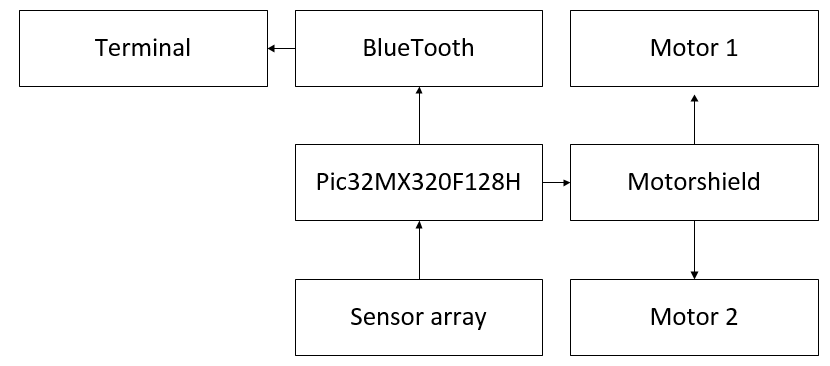
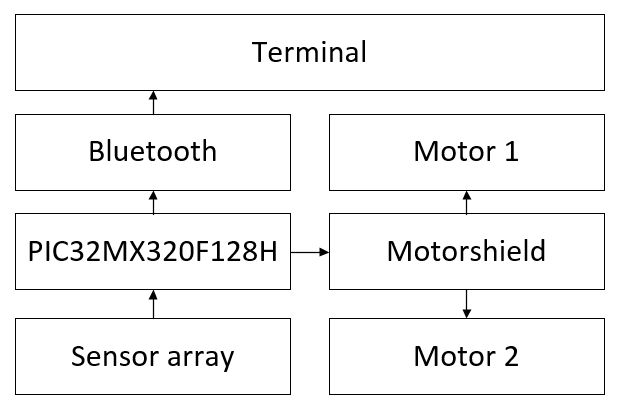
Henriks, Martins Lister rettet (næsten)
Lol eat shit

diff --git a/Rapport/contents/hardware/hardwaredesc.tex b/Rapport/contents/hardware/hardwaredesc.tex
@@ -1,11 +1,11 @@
 %\section{Description of the hardware structure and functionality}
-In the following section, the hardware parts and functions will be introduced and described. The following part consists of sensor selection, ADC, chipKIT Uno32 board \& motor-shield.
+In the following section, the hardware parts and functions will be introduced and described. The following part consists of sensor selection, ADC, chipKIT Uno32 board, motor-shield including the H bridge, and the bluetooth transmitter.
 
 \section{Hardware diagram}
-The micro-controller is connected to the motor-shield and the motor-shield is then powering both motor 1 and motor 2. The sensor-array is sending the collected data to the micro-controller every 25 ms, the micro-controller then sends it further to the bluetooth unit. The bluetooth unit then writes the data to the terminal. 
+The micro-controller is connected to the motor-shield and the motor-shield is then powering both motor 1 and motor 2. The micro-controller reads data from the sensor array every 25 microsecond by utilizing the ADC, the micro-controller then sends it further to the bluetooth unit. The bluetooth unit then sends its data to the terminal. 
 \begin{figure}[!ht]
 	\centering
-	\includegraphics[width=.6\textwidth]{figures/hardwaredia2.png}
+	\includegraphics[width=.6\textwidth]{figures/hardwaredia.png}
 	\caption{\text{Block diagram showing the hardware.}}
 	\label{Hardware diagram}
 \end{figure}
@@ -19,26 +19,26 @@ The micro-controller is connected to the motor-shield and the motor-shield is th
 		Name                & QRE1113 Board & OPB704    \\ \hline
 		Max sensor distance & 3mm           & 3.8mm     \\ \hline
 		Forward current     & 50mA          & 40mA      \\ \hline
-		Mounting            & On print      & In casing \\ \hline
+		Mounting            & On a PCB      & In casing \\ \hline
 		Price               & 19.43DKK      & 42.55DKK  \\ \hline
 	\end{tabular}
 	\caption{Table showing the sensors in consideration}
 \end{table}
-The table shows a comparison of the two sensors that were taken into consideration for the project, that is to show the price difference and the utility from sensor to sensor. \emph{(fig 2.1)}
+The table shows a comparison of the two sensors that were taken into consideration for the project, this is to show the price difference and the specification differences from sensor to sensor. \emph{(fig 2.1)}
 
 \subsection{The OPB704}
-The OPB704 sensor ended up being selected for the robot over the popular QRE1113 sensor board. It has a higher sensor max distance (3.8mm\footnote{http://www.farnell.com/datasheets/1884910.pdf} compared to the QRE1113s 3mm) and it has the same functionality. It comes with a special casing, for which a special mounting unit was 3D-printed to accommodate an array of 7. This makes the mounting very solid and tightly fitted unto the robot, which ideally makes the sensor array more stable in case of an uneven test course.
+The OPB704 sensor ended up being selected for the robot over the popular QRE1113 sensor board. It has a higher sensor max distance (3.8mm\footnote{http://www.farnell.com/datasheets/1884910.pdf} compared to the QRE1113s 3mm) and it has the same functionality. The way the sensor works is an LED shoots It comes with a special casing, for which a special mounting unit was 3D-printed to accommodate an array of 7. This makes the mounting very solid and tightly fitted unto the robot, which ideally makes the sensor array more stable in case of an uneven test course.
 \sidebyimg{figures/opb704.jpg}{The sensor OPB 704}{figures/sensorarray.jpg}{3D printed sensor array module}
 
-\subsection{The QRE1113 board(Analog)}
-Another possible sensor selection would be the QRE1113\footnote{http://cdn.sparkfun.com/datasheets/Sensors/Proximity/QRE1113.pdf} board sensor. This sensor comes complete with mounting and the necessary printing and wiring. This makes working with the sensor fairly straight forward. Although this sensor is commonly used for line following robots, when it was compared to the OPB704, it quickly became apparent that the difference in max sensor distance could become a liability, and with this in mind, the OPB704 sensor was selected.
+\subsection{The QRE1113 board}
+Another possible sensor selection would be the QRE1113\footnote{http://cdn.sparkfun.com/datasheets/Sensors/Proximity/QRE1113.pdf} board sensor. This sensor comes complete with mounting and the necessary printing and wiring. This makes working with the sensor fairly straightforward. Although this sensor is commonly used for line following robots, when it was compared to the OPB704, it quickly became apparent that the difference in max sensor distance could become a liability, and with this in mind, the OPB704 sensor was selected.
 
-\sidebyimg{figures/QRE.jpg}{QRE1113 Sensor with own mount}{figures/QREmount.jpg}{3D printed sensor array module withe the QRE1113}
+\sidebyimg{figures/QRE.jpg}{QRE1113 Sensor on a breakout board}{figures/QREmount.jpg}{3D printed sensor array module withe the QRE1113}
 
 \section{Analog-to-digital converter (ADC)}
-The purpose of the ADC is to convert the analog data from the sensors to digital data that can be managed by a computer - this allows data received from the blue-tooth transmitter on the product to be processed into readable data more easily, which is great for showing how the sensors are reacting. The sensors themselves cannot discern what they actually need to read, the sensors just read anything they can see and send that signal.
+The purpose of the ADC is to convert the analog signal from the sensors to digital data that can be managed by a computer - the digital data is sent through the bluetooth transmitter to a computer which displays these data readings in a GUI that has been programmed for this robot. This allows the user to read and understand what the sensors are reacting to. The sensors themselves cannot discern what signals are relevant and when to send these, the sensors just read anything they can see and send that signal. Analog signals can have a significant amount of noise - since any received noise is interpreted as part of the signal, 
 
-Analog signals can have a significant amount of noise - since any received noise is interpreted as part of the signal, a digital signal is not only more easy to work with, it will also provide more precise data. This will make for more accurate readings on the tachometer on the robot, which allows even more finely tuned monitoring of the robot and its working processes. \\
+*a digital signal is not only more easy to work with, it will also provide more precise data. This will make for more accurate readings on the tachometer of the robot, which allows even more finely tuned monitoring of the robot and its working processes.* TBD \\
 
 \subsubsection{ADC diagram} 
 \img{figures/ADCblock.png}{PIC32 ADC fuctional block diagram}{adcblockdiagram}{1}
@@ -46,19 +46,24 @@ Analog signals can have a significant amount of noise - since any received noise
 \subsubsection{This products usage of ADC}
 The usage of the ADC in the system, is to measure the returning voltage from the OPB704 sensor. Both the OPB704 and the QRE1113 sensors are reflective phototransistors.
 A reflective phototransistor consists of a infrared LED and a phototransistor.
-The phototransitors output voltage is controlled by the amount of light from the LED that is being reflected of the given surface the sensor is looking at, back to the phototransistor.
+The phototransitors output voltage is controlled by the amount of light from the LED that is being reflected off the given surface the sensor is pointed at, back to the phototransistor.
 \img{figures/reflectivesensorworkings.png}{The difference in reflection on light and dark surfaces}{reflectivesensorworkings}{0.8}
 
-\section{The ChipKit Uno32 board}
-Our main computing core is at the ChipKit Uno32 board. The board was selected both because of previous experiences, and because it met the set requirements perfectly - most importantly it has twelve analog imputs to handle our array of seven sensors. This board utilizes the PIC32MX320F128 microcontroller, which features a 32-bit processing core running at 80Mhz with 128K of flash program memory and 16K SRAM data memory\footnote{http://www.microchip.com/wwwproducts/en/PIC32MX320F128H}. This board allowed the most important aspects of the project to become reality; namely a GUI showing both the ADC readings as well as visualizing the sensor imputs, plenty of analog inputs to allow for the sensor array, and BlueTooth transmission of data from the robot unto a computer.\newline
+\section{The chipKIT Uno32 board}
+Our main computing core is at the chipKIT Uno32 board. The board was selected based on on previous experiences, and because it meets the set requirements - most importantly it has twelve analog imputs to handle our array of seven sensors. This board utilizes the PIC32MX320F128 microcontroller, which features a 32-bit processing core running at 80MHz with 128KB of flash program memory and 16KB SRAM data memory\footnote{http://www.microchip.com/wwwproducts/en/PIC32MX320F128H}. 
+
+*This board allowed the most important aspects of the project to become reality; namely a GUI showing both the ADC readings as well as visualizing the sensor imputs* TBD
+
+, plenty of analog inputs to allow for the sensor array, and BlueTooth transmission of data from the robot unto a computer.\newline
 The board is compatible for use with MPLAB IDE and the PICKit3 debugger.
 
 \section{The motor shield - PKA03}
-The motor shield was chosen because it is compatible with the Uno32 board, and fits perfectly within the scope of the project. It controls both motors and receives power from the 7.2 V lithium-ion battery pack mounted on the chassis itself. The motor shield is instrumental in providing motor controls to the product. To do this, it utilizes a specific electric circuit, called an H bridge.
+The motor shield was chosen because it is compatible with the Uno32 board, and fits perfectly within the scope of the project. It controls both motors and receives power from the 6.0 V battery pack mounted on the chassis itself. The motor shield is instrumental in providing motor controls to the product. To do this, it utilizes a specific electric circuit, called an H bridge.
 
 \subsection{The H bridge}
-An H bridge is a circuit that allows a voltage to be applied across a load in either direction. The purpose of this in the case of this project is to enable controls of the two motors in a way so that they can function individually, and both drive forwards and backwards.\\
-At first, there were experiments with custom prints and a purpose-built h bridge on the first iteration of the motor shield. However after testing, it proved faulty and was changed to accommodate time constraints.
+An H bridge is a circuit that allows a voltage to be applied across a load in either direction. The purpose of this in the case of this project is to enable controls of the two motors in a way so they can both function individually, and both drive forwards and backwards.\\
+
+*At first, there were experiments with custom prints and a purpose-built h bridge on the first iteration of the motor shield. However after testing, it proved faulty and was changed to accommodate time constraints.* TBD
 
 \section{The blue-tooth transmitter - BlueSMIRF Silver}
-The robot utilizes the BlueSMIRF Silver blue-tooth transmitter made by Sparkfun. Its function is to send data from the ADC and pulse width modulator (see the software section) to a C\# GUI run on a computer. This way, it is possible to monitor both the inputs the robot is receiving, as well as the logic behind the steering. It allows for any stream between 2400 to 115200 bps\footnote{https://www.sparkfun.com/products/12577}. 
+The robot utilizes the BlueSMIRF Silver blue-tooth transceiver made by Sparkfun. Its function is to send data from the MCU (see the software section) to a C\# GUI run on a computer. This way, it is possible to monitor both the inputs the robot is receiving, as well as the logic behind the steering. It allows for any stream between 2400 to 115200 BPS\footnote{https://www.sparkfun.com/products/12577}. 

diff --git a/Rapport/contents/software/softwaredesc.tex b/Rapport/contents/software/softwaredesc.tex
@@ -1,8 +1,9 @@
-\section{Description of the software structure and functionality}
 
-The following section will introduce the software segment, based on the required specifications. The design will shown in the form of a flowchart.
-The section consists of the PID controller \& the Pulse width modulator.
-TBD Softwarebeskrivelse og underafsnit
+The following section will introduce the software segment, based on the required specifications. The design will be shown in the form of a flowchart.
+The section consists of the PID controller and the Pulse width modulator.
+
+\subsection{Software diagram}
+TBD Softwarediagram
 
 \section{Analog to digital conversion (software)}
 
@@ -24,21 +25,23 @@ extern int analogRead(char CH) {
 \end{lstlisting}
 The software code is showing how the ADC is converting analog to digital for the product. TBD beskriv koden med registre
 
+\newpage
 
 \section {Description of the PID controller} 
 A PID controller continuously calculates an error value as the difference to a reference point and a measured process variable.\\
-PID is an abbreviation for a proportional-integral-derivative controller, it is a control loop feedback mechanism. The controllers job is to minimize the error value for the given devices running time. In the case of this project the reference point is the line to follow and the PID will allow the MCU to adjust the power to the engines, to steer accordingly to said reference point.
+PID is an abbreviation for a proportional-integral-derivative controller, it is a control loop feedback mechanism. The controllers job is to minimize the error value for the given devices running time. In the case of this project the reference point is the line to follow and the PID will allow the MCU to adjust the power to the motors, to steer accordingly to said reference point.
 $$\mathrm{F}(t)=K_p{e(t)} + K_{i}\int_{0}^{t}{e(\tau)}\,{d\tau} + K_{d}\frac{de(t)}{dt}$$
 
 \begin{figure}[h!]
   \centering
-  \includegraphics[width=0.5\textwidth]{figures/PID_block.png}  
+  \includegraphics[width=1.0\textwidth]{figures/PID_block.png}  
 \caption{Block diagram, showing the idea of PID controller.} \subcaption*{Credits: \url{www.wikipedia.org/wiki/PID_controller}}  
   \label{PID controller}
 \end{figure}
 
-\subsection {Proportional control(P)}
+\newpage
 
+\subsection {Proportional control(P)}
 The proportional part creates an output value that is proportionally related to the current error value, this value can be tuned by multiplying the error by a constant $K_p$. A high proportional gain results in a large change in the output for a given change in the error. 
 
 
@@ -49,7 +52,7 @@ If the proportional gain is too high, the system can become unstable. Contrarily
 
 \begin{figure}[h!]
   \centering
-  \includegraphics[width=0.5\textwidth]{figures/PIDP.jpg}
+  \includegraphics[width=0.8\textwidth]{figures/PIDP.jpg}
   
   \caption{$K_p$ with 3 values. ($K_i$, $K_d$ held constant)} 
   \subcaption*{Credits: \url{www.wikipedia.org/wiki/PID_controller\#Proportional_term}}
@@ -57,11 +60,11 @@ If the proportional gain is too high, the system can become unstable. Contrarily
 \end{figure}
 
 \subsection {Steady-state error}
+When looking at figure 3.2 the reference point is the blue line. The goal is to make the lines merge up and the steady-state is achieved. When the lines don't merge and the feedback line is slightly above or under the reference point there is a steady-state error. This steady-state error can be minimized by adjusting the proportional and integral term. 
 
-When looking at figure 3.2 the reference point is the blue line and the feedback line is the green, the two lines merge up and the steady-state is achieved. When the lines don't merge and the feedback line is slightly above or under the reference point there is a steady-state error. This steady-state error can be minimized by adjusting the proportional and integral term. 
+\newpage
 
 \subsection {Integral control(I)}
-
 The integral controller is contributing proportionally to both the magnitude of the error and the duration of the error. \\
 The integral in a PID controller is the sum of the instantaneous error over time and gives the accumulated offset that should have been corrected previously. \\ 
 
@@ -70,37 +73,34 @@ $$I_{\mathrm{out}}=K_{i}\int_{0}^{t}{e(\tau)}\,{d\tau}$$
 
 The integral part accelerates the movement of the process towards the reference point.
 Since the integral term correlates to accumulated errors from the past, it can cause the present value to overshoot the reference value.
-
-\subsection {Derivative control(D)} 
-
-The derivative of the process error is calculated by determining the slope of the error over time and multiplying this rate of change by the derivative gain $K_d$. The magnitude of the contribution of the derivative term to the overall control action is termed the derivative gain, $K_d$.
 \begin{figure}[h!]
   \centering
-  \includegraphics[width=0.5\textwidth]{figures/Change_with_Ki.png}
+  \includegraphics[width=0.8\textwidth]{figures/Change_with_Ki.png}
   
   \caption{$K_i$ shown with 3 values.} 
   \subcaption*{Credits: \url{www.wikipedia.org/wiki/PID_controller\#Integral_term}}
   \label{PID controller}
 \end{figure}
 
-The derivative term is given by:
+\newpage
+
+\subsection {Derivative control(D)} 
+The derivative of the process error is calculated by determining the slope of the error over time and multiplying this rate of change by the derivative gain $K_d$. The magnitude of the contribution of the derivative term to the overall control action is termed the derivative gain, $K_d$. The derivative term is given by:
 
 $$D_{\mathrm{out}}=K_d\frac{de(t)}{dt}$$
 The derivative action predicts system behaviour and utilizes this to improve the settling time and stability of the system.
 An ideal derivative is not causal, so that implementations of PID controllers include an additional low pass filtering for the derivative term, to limit the high frequency gain and noise.
-
 \begin{figure}[h!]
   \centering
-  \includegraphics[width=0.5\textwidth]{figures/Change_with_Kd.png}
+  \includegraphics[width=0.8\textwidth]{figures/Change_with_Kd.png}
   \caption{$K_d$ shown with 3 values.} 
   \subcaption*{Credits: \url{www.wikipedia.org/wiki/PID_controller\#Derivative_term}}
   \label{PID controller}
 \end{figure}
 
-
+\newpage
 
 \subsection {Loop tuning} 
-
 Tuning the loop is the term used to describe the adjustments of the PID’s control parameters (proportional band/gain, integral gain/reset, derivative gain/rate) to the optimal values for the given control scheme. \\ Stability is the first requirement; however systems can differ greatly, and different applications may have different requirements and these may even conflict with each other. For example, high speed and high accuracy often cancel each other out, because high speed may cause overshooting, while high accuracy is slow.\\ The ideal realistic behaviour is both as fast as possible, while also having minimum overshoot and oscillation. \\ 
 
 Even though the process seems simple, with only three variables, it can be challenging to achieve, because it must satisfy the criteria despite being within the limitations of PID control. While adjusting the PID can seem conceptually intuitive, and while most PIDs may perform acceptably with default controls, they may very well also have an unsatisfactory performance.\\ This can generally be fixed through optimisation and tuning, either through computer simulations or manual testing. In this case, there was used manual tuning of the numbers.

diff --git a/Rapport/contents/formalities/preface.tex b/Rapport/contents/formalities/preface.tex
@@ -1,16 +1,10 @@
-\chapter*{Introduction}
+\chapter*{Preamble}
 
 
 %Læsevejledning:\\
 %Kommer senere i projektforløbet.
 %\\\\
-A line following robot is basically a robot designed for the consumer to follow a line or path that is predetermined. This line or path may be as simple as a strip of tape or a black line and if  developed further can follow e.g magnetic markers, embedded lines and laser guided markers. In order to detect the various lines or paths, miscellaneous sensors or sensing schemes can be used.\newline These schemes may range from simple low cost schemes to advanced and more expensive vision systems. In the industry the many different types of robots are already implemented in semi to fully automatic systems.\\
-
-The project was handed to the group april 12'th and will be handed in at UCN Sofiendalsvej, june 7'th at 12.00.\newline
-The objective of this project is to design and implement an automotive robot capable of autonomous maneuvering, specifically a line-following robot employing light detecting sensors.  \\
-The challenges at hand is to design a system for the board, to utilize the ADC capabilities of the chip and to implement a PID controller. Furthermore test the products performance on a test track to optimize by trial and error and to implement software with multiple light detecting sensors.
-
-
+This project was written by group 2, for the second semester on the IT-electronics education at university college Nordjylland, Sofiendalsvej 60. The project goal is to make a line following robot.
 %
 \phantom{Luft}\vspace{3cm}
 \begin{table}[H]

diff --git a/Rapport/contents/formalities/Introduction.tex b/Rapport/contents/formalities/Introduction.tex
@@ -1,0 +1,5 @@
+A line following robot is essentially a robot designed for the consumer to follow a line or path that is predetermined. This line or path may be as simple as a strip of tape or a black line and if  developed further can follow e.g magnetic markers, embedded lines and laser guided markers. In order to detect the various lines or paths, miscellaneous sensors or sensing schemes can be used.\newline These schemes may range from simple low cost sensors to advanced and more expensive vision systems. In the industry the many different types of robots are already implemented in semi to fully automatic systems.\\
+
+The project was handed to the group April 12th and will be handed in at UCN Sofiendalsvej, June 7th at 12.00.\newline
+The objective of this project is to design and implement an automotive robot capable of autonomous maneuvering, specifically a line-following robot employing light detecting sensors.  \\
+The challenges at hand are to design a system for the board, to utilize the ADC capabilities of the chip and to implement a PID controller; furthermore test the products performance on a test track to optimize the control algorithms by adjusting values and to implement a hardware solution featuring light detecting sensors.

diff --git a/Rapport/rapport.tex b/Rapport/rapport.tex
@@ -31,7 +31,8 @@
 
 %numbers the pages with Arabic numeral - starts from 1.
 \mainmatter
-
+\chapter{Introduction}
+\input{contents/formalities/Introduction.tex}
 \chapter{Requirements specification}
 \input{contents/reqspec.tex}
 \chapter{Hardware section}
@@ -39,7 +40,7 @@
 \input{contents/hardware/hardwaredesc.tex}
 \input{contents/hardware/partconclusion.tex}
 \chapter{Software section}
-\input{contents/software/softwarespec.tex}
+%\input{contents/software/softwarespec.tex}
 \input{contents/software/softwaredesc.tex}
 \input{contents/software/partconclusion.tex}
 \chapter{Test}
@@ -50,6 +51,9 @@
 \input{contents/appendices/groupcollab.tex}
 \chapter{List of references}
 \input{contents/LOR.tex}
+\chapter{Software appendix}
+\input{contents/appendices/Ccode.tex}
+\input{contents/appendices/Csharpcode.tex}
 \newpage
 \listoffigures
 \addtocontents{lof}{~\hfill\textbf{Page}\par}

diff --git a/Rapport/contents/appendices/groupcollab.tex b/Rapport/contents/appendices/groupcollab.tex
@@ -34,7 +34,7 @@ Nikolaj Bilgrau  & Tlf: 29802715 & @: nikolajbilgrau@gmail.com \\ \hline
   \label{Time Schedule}
 \end{figure}
 
-In may there is listed a workshop from the 17-23 May. This was postponed and used for project days instead.
+In May there is listed a workshop from the 17-23 May. This was postponed and used for project days instead.
 \begin{figure}[h!]
   \centering
   \includegraphics[width=1.1\textwidth]{figures/may.png}

diff --git a/Rapport/contents/formalities/titleSheet.tex b/Rapport/contents/formalities/titleSheet.tex
@@ -50,13 +50,13 @@ Line following robot
 \item { Projectgroup:}\\
   Group 2 
   \hspace{4cm}
-\item { Medvirkende:}\\
+\item { Group participants:}\\
 Benjamin Nielsen\\
 Henrik Jensen\\
 Martin Nonboe\\
 Nikolaj Bilgrau\\
 \hspace{2cm}
-\item { Supervisor:}\\
+\item { Supervisors:}\\
 Jesper Kristensen\\
 Steffen Vutborg
   
